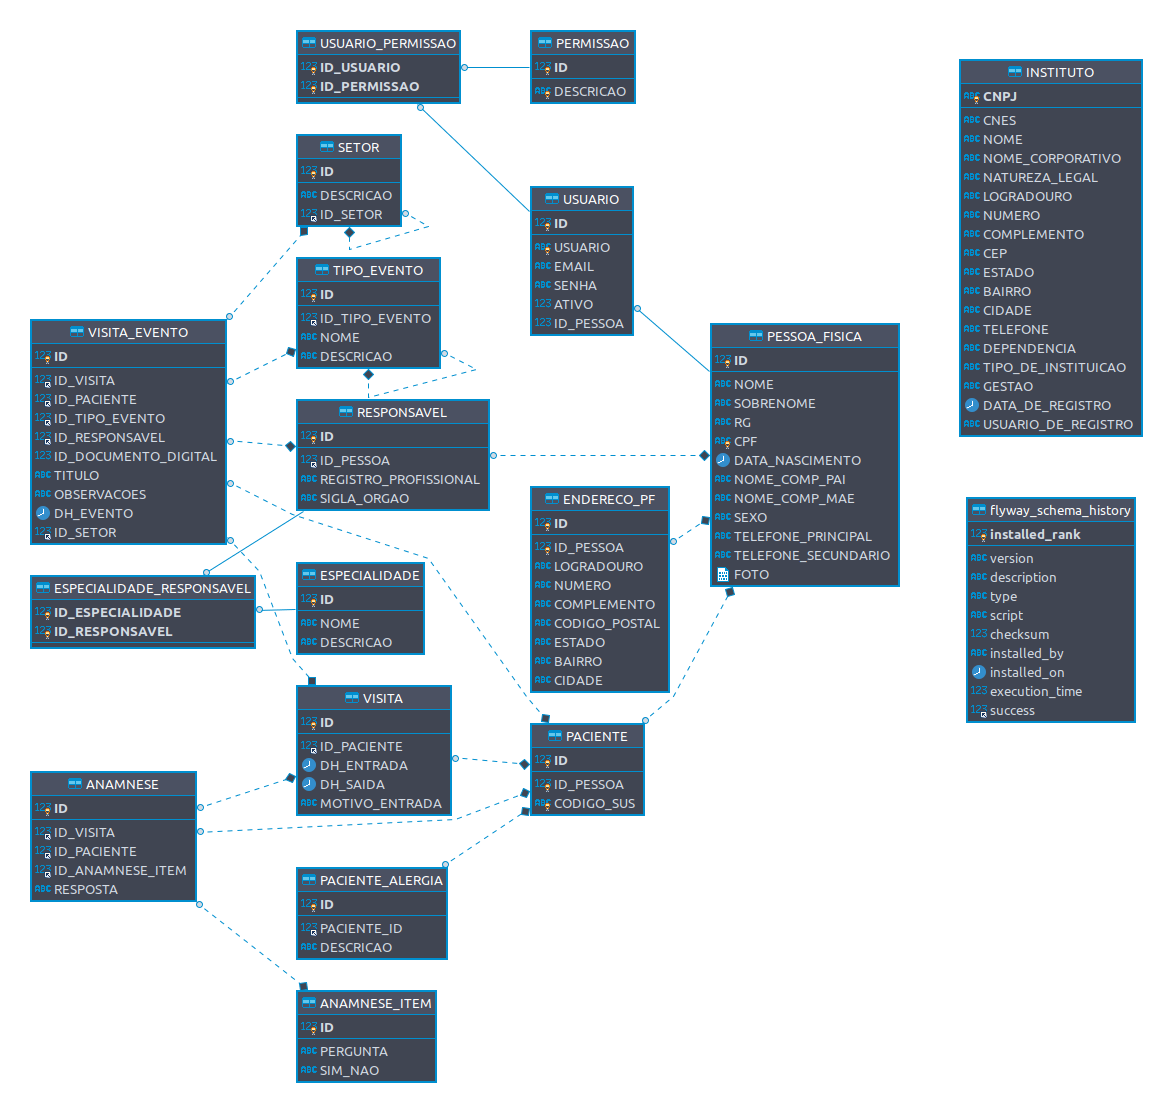
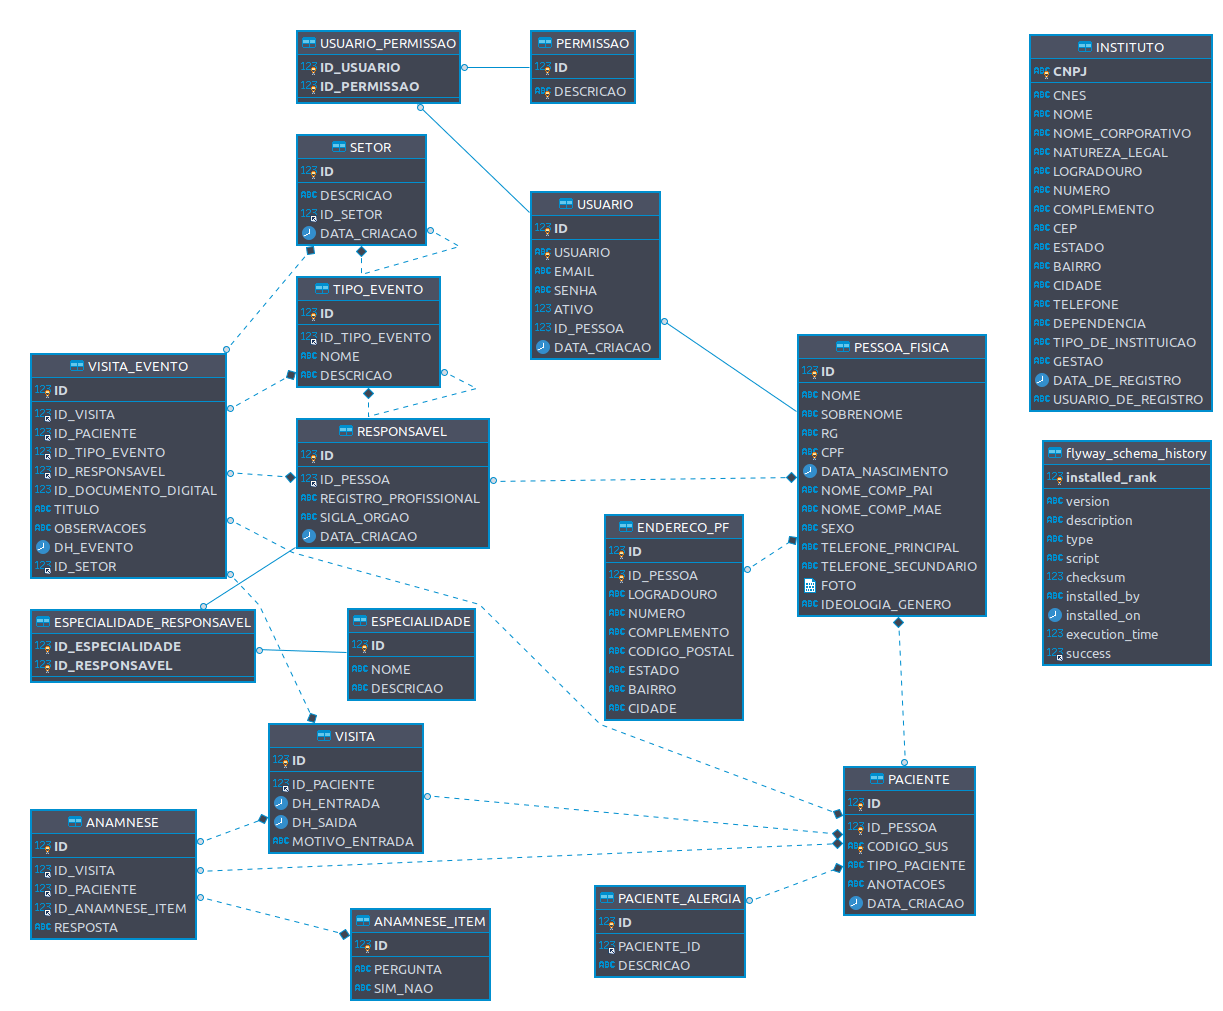
feat: Melhoramento no cadastro de paciente

diff --git a/src/main/java/br/com/ft/gdp/service/PatientService.java b/src/main/java/br/com/ft/gdp/service/PatientService.java
@@ -15,6 +15,7 @@ import br.com.ft.gdp.controller.filters.PatientFilters;
 import br.com.ft.gdp.exception.ObjectNotFoundException;
 import br.com.ft.gdp.exception.ValidationException;
 import br.com.ft.gdp.models.domain.Patient;
+import br.com.ft.gdp.models.domain.PatientType;
 import br.com.ft.gdp.models.domain.Person;
 import br.com.ft.gdp.models.domain.PersonAddress;
 import br.com.ft.gdp.models.dto.AddressDTO;
@@ -23,6 +24,7 @@ import br.com.ft.gdp.models.dto.PatientDTO;
 import br.com.ft.gdp.models.dto.PatientInfoDTO;
 import br.com.ft.gdp.models.enums.DocumentType;
 import br.com.ft.gdp.repository.PatientRepository;
+import br.com.ft.gdp.util.StringUtils;
 
 /**
  * 
@@ -93,7 +95,7 @@ public class PatientService implements GenericService<Patient, Long> {
     public PatientInfoDTO findByCpf(String cpf) {
         try {
             Patient patient = dao.findByCpf(cpf)
-                    .orElseThrow(() -> new ObjectNotFoundException(String.format("Paciente com cpf: [%s] não encontrado", cpf)));
+                    .orElseThrow(() -> new ObjectNotFoundException(String.format("Paciente com CPF: [%s] não encontrado", cpf)));
             Person personFromDb = patient.getPerson();
 
             PatientInfoDTO patientInfo = new PatientInfoDTO();
@@ -114,7 +116,7 @@ public class PatientService implements GenericService<Patient, Long> {
 
     public PatientInfoDTO findBySusNumber(String susNumber) {
         Patient patient = dao.findBySusNumber(susNumber)
-                .orElseThrow(() -> new ObjectNotFoundException(String.format("Paciente com cpf: [%s] não encontrado", susNumber)));
+                .orElseThrow(() -> new ObjectNotFoundException(String.format("Paciente com cartão SUS de número %s não encontrado", susNumber)));
         Person personFromDb = patient.getPerson();
 
         PatientInfoDTO patientInfo = new PatientInfoDTO();
@@ -179,6 +181,8 @@ public class PatientService implements GenericService<Patient, Long> {
         patient.setAnnotations(entity.getAnnotations());
         patient.setCreatedAt(entity.getCreatedAt());
         personService.update(entityFromDb.getId(), entityFromDb);
+
+        handlePatientType(patient);
         dao.save(patient);
 
         return entity;
@@ -245,10 +249,22 @@ public class PatientService implements GenericService<Patient, Long> {
         newPatient.setPerson(personFromDb);
         newPatient.setSusNumber(entity.getSusNumber());
         newPatient.setCreatedAt(LocalDateTime.now());
+
+        handlePatientType(newPatient);
         dao.save(newPatient);
 
         entity.setId(newPatient.getId());
         return entity;
+    }
+
+    private void handlePatientType(Patient newPatient) {
+        if (StringUtils.isNullOrEmpty(newPatient.getSusNumber()) && StringUtils.isNullOrEmpty(newPatient.getPerson().getMotherName())
+                && StringUtils.isNullOrEmpty(newPatient.getPerson().getCpf())
+                && StringUtils.isNullOrEmpty(newPatient.getPerson().getLastName())) {
+            newPatient.setType(PatientType.NOT_IDENTIFIED);
+        } else {
+            newPatient.setType(PatientType.IDENTIFIED);
+        }
     }
 
     /**

diff --git a/src/main/java/br/com/ft/gdp/models/dto/PatientInfoDTO.java b/src/main/java/br/com/ft/gdp/models/dto/PatientInfoDTO.java
@@ -1,8 +1,20 @@
 package br.com.ft.gdp.models.dto;
 
+import java.io.Serializable;
 import java.time.LocalDateTime;
+import java.util.Date;
 
+import javax.persistence.EnumType;
+import javax.persistence.Enumerated;
+import javax.validation.constraints.NotNull;
+import javax.validation.constraints.Size;
+
+import org.springframework.format.annotation.DateTimeFormat;
+import org.springframework.format.annotation.DateTimeFormat.ISO;
+
+import br.com.ft.gdp.models.domain.GenderIdeology;
 import br.com.ft.gdp.models.domain.PatientType;
+import br.com.ft.gdp.models.enums.Gender;
 import lombok.Data;
 import lombok.EqualsAndHashCode;
 
@@ -14,14 +26,50 @@ import lombok.EqualsAndHashCode;
  * @since 3 de out de 2019
  */
 @Data
-@EqualsAndHashCode(callSuper = true)
-public class PatientInfoDTO extends PersonInfoDTO {
+@EqualsAndHashCode
+public class PatientInfoDTO implements Serializable {
     private static final long serialVersionUID = 1575416178033511932L;
 
+    private Long id;
+
+    @NotNull(message = "O nome é obrigatório")
+    @Size(min = 3, max = 45, message = "O nome é obrigatório")
+    private String firstName;
+
+    private String lastName;
+
+    @DateTimeFormat(iso = ISO.DATE)
+    private Date bornDate;
+
+    @NotNull(message = "O documento deve ser informado")
+    private DocumentDTO document;
+    @NotNull(message = "O gênero deve ser informado")
+    @Enumerated(EnumType.STRING)
+    private Gender gender;
+
+    @Enumerated(EnumType.STRING)
+    private GenderIdeology genderIdeology;
+
+    private String fatherName;
+
+    private String motherName;
+
+    @Size(min = 8, message = "Informe um número de telefone válido. O número deve conter ao menos 8 dígitos.")
+    private String principalNumber;
+
+    @Size(min = 8, message = "Informe um número de telefone válido. O número deve conter ao menos 8 dígitos.")
+    private String secondaryNumber;
+
+    private AddressDTO address;
+
+    private String profilePhoto;
+
+    @Size(max = 15, message = "Informe o código SUS do paciente. O número deve conter ao menos 15 dígitos.")
     private String susNumber;
 
     private PatientType type;
 
+    @Size(max = 300, message = "As anotações não devem passar de 300 caracteres")
     private String annotations;
 
     private LocalDateTime createdAt;
